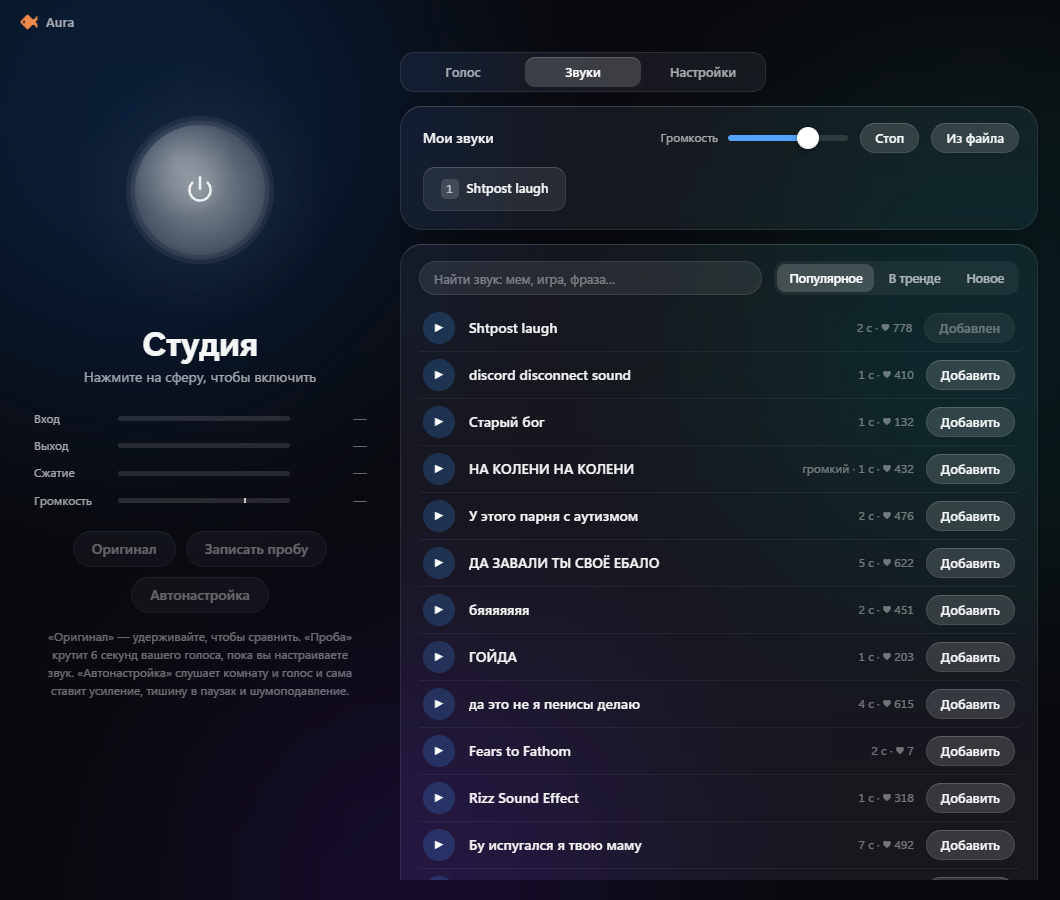
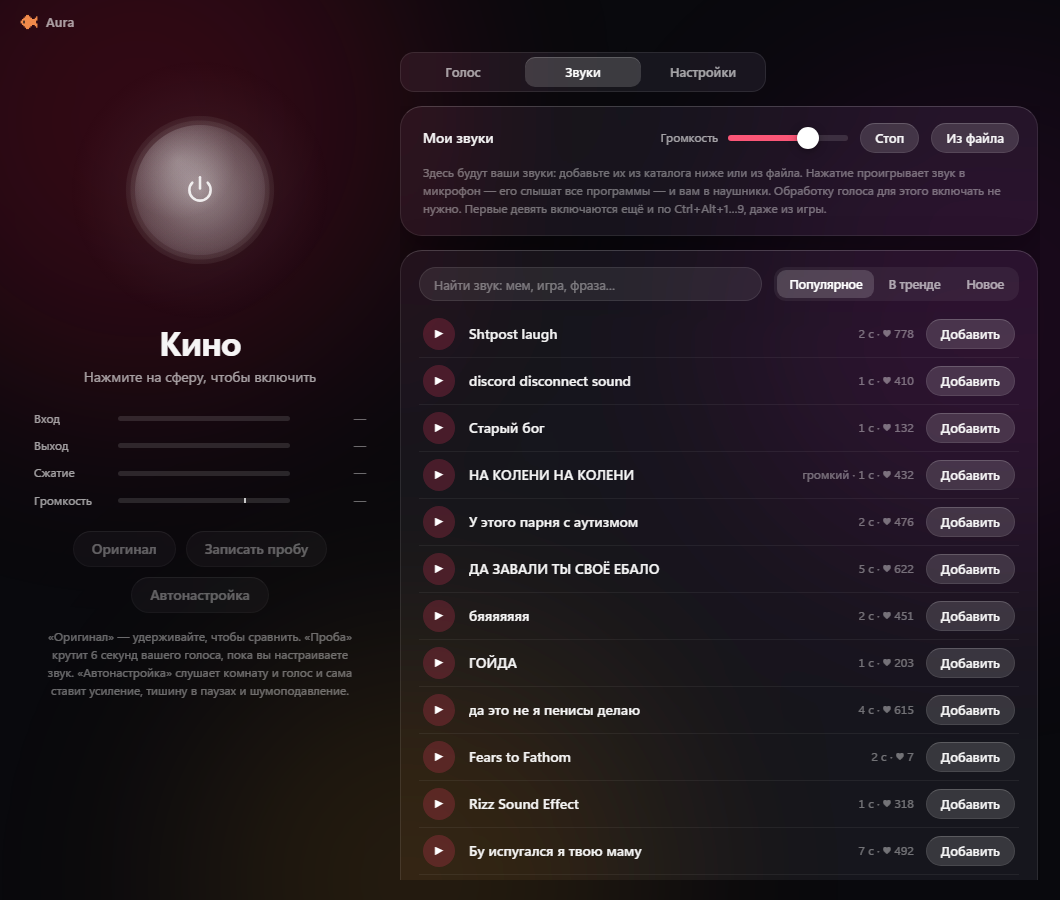
Launch animation; software-rendered dev screenshots

Changed region(s): [[0.0, 0.0, 0.9962, 0.9956], [0.6849, 0.1244, 0.7472, 0.1556], [0.3736, 0.0622, 0.4047, 0.0933]]

diff --git a/app/style.css b/app/style.css
@@ -55,6 +55,49 @@ main {
   display: grid; grid-template-columns: 360px 1fr; gap: 20px;
 }
 
+/* ───────── Launch ─────────
+ * The fish is drawn pixel by pixel, the name settles under it, then the curtain lifts and the
+ * interface rises into place. About a second and a half; any click or key skips it. */
+.intro {
+  position: fixed; inset: 0; z-index: 10;
+  display: flex; flex-direction: column; align-items: center; justify-content: center; gap: 26px;
+  background: radial-gradient(60% 50% at 50% 46%, rgba(240, 138, 75, 0.16), transparent 70%), #09090d;
+  transition: opacity 520ms ease, transform 700ms cubic-bezier(0.22, 1, 0.36, 1), filter 520ms ease;
+  -webkit-app-region: drag;
+  animation: intro-failsafe 400ms 4500ms forwards; /* never leave the window covered, whatever happens */
+}
+.intro.leaving { opacity: 0; transform: scale(1.12); filter: blur(10px); pointer-events: none; }
+.intro-fish {
+  display: grid; grid-template-columns: repeat(12, 15px); grid-auto-rows: 15px;
+  filter: drop-shadow(0 0 0 rgba(240, 138, 75, 0));
+  animation: intro-glow 900ms 520ms cubic-bezier(0.22, 1, 0.36, 1) forwards, intro-swim 1400ms 300ms cubic-bezier(0.22, 1, 0.36, 1) both;
+}
+.intro-fish i { opacity: 0; transform: scale(0.2) translate(-14px, 6px); animation: intro-pixel 460ms cubic-bezier(0.22, 1, 0.36, 1) forwards; }
+.intro-fish i.body { background: #f08a4b; }
+.intro-fish i.eye { background: #1a1a1e; }
+.intro-name {
+  font: 700 30px/1 -apple-system, 'SF Pro Display', 'Segoe UI Variable Display', 'Segoe UI', system-ui, sans-serif;
+  letter-spacing: 0.32em; margin-right: -0.32em; color: #fff; opacity: 0;
+  animation: intro-name 760ms 560ms cubic-bezier(0.22, 1, 0.36, 1) forwards;
+}
+@keyframes intro-pixel { to { opacity: 1; transform: none; } }
+@keyframes intro-glow { to { filter: drop-shadow(0 0 26px rgba(240, 138, 75, 0.55)); } }
+@keyframes intro-swim { from { transform: translateX(-26px); } to { transform: none; } }
+@keyframes intro-name { from { opacity: 0; transform: translateY(10px); letter-spacing: 0.6em; } to { opacity: 1; transform: none; letter-spacing: 0.32em; } }
+@keyframes intro-failsafe { to { opacity: 0; visibility: hidden; } }
+
+/* The interface waits under the curtain, then rises: the orb first, the controls a beat later. */
+.hero, .controls { transition: opacity 620ms ease, transform 820ms cubic-bezier(0.22, 1, 0.36, 1); }
+.controls { transition-delay: 90ms; }
+body.intro-on .hero, body.intro-on .controls { opacity: 0; transform: translateY(18px) scale(0.985); animation: intro-reveal 400ms 4500ms forwards; }
+@keyframes intro-reveal { to { opacity: 1; transform: none; } }
+
+@media (prefers-reduced-motion: reduce) {
+  .intro-fish, .intro-fish i, .intro-name { animation: none; opacity: 1; transform: none; }
+  .intro.leaving { transform: none; filter: none; }
+  body.intro-on .hero, body.intro-on .controls { transform: none; }
+}
+
 /* ───────── Hero ───────── */
 .hero { display: flex; flex-direction: column; align-items: center; padding-top: 8px; min-height: 0; }
 

diff --git a/main.js b/main.js
@@ -16,6 +16,7 @@ const asset = (name) => path.join(__dirname, 'assets', name);
 
 // Let the audio engine start on launch, without waiting for a click.
 app.commandLine.appendSwitch('autoplay-policy', 'no-user-gesture-required');
+if (shotArg) app.disableHardwareAcceleration(); // dev screenshots: software rendering works with the display off
 
 if (!devRun && !app.requestSingleInstanceLock()) app.quit();
 
@@ -73,6 +74,18 @@ function createWindow() {
   });
 
   if (shotArg || testMode || probeMode) {
+    // dev: AURA_EARLY_SHOT=<ms after load> saves an extra frame, e.g. to look at the launch animation
+    if (shotArg && process.env.AURA_EARLY_SHOT) {
+      win.webContents.once('did-finish-load', () => {
+        setTimeout(async () => {
+          try {
+            fs.writeFileSync(shotArg.slice('--shot='.length).replace(/.png$/, '-early.png'), (await win.webContents.capturePage()).toPNG());
+          } catch (err) {
+            console.log('[early shot] failed:', err.message);
+          }
+        }, Number(process.env.AURA_EARLY_SHOT));
+      });
+    }
     if (shotArg && clickSelector) {
       setTimeout(async () => {
         const result = await win.webContents
@@ -94,7 +107,7 @@ function createWindow() {
         }
         // A text summary of what is on screen, for when a picture is not enough.
         const summary = await win.webContents
-          .executeJavaScript("JSON.stringify({ tab: document.querySelector('.tabs [aria-selected=true]')?.textContent, pages: [...document.querySelectorAll('.page')].filter((p) => !p.hidden).map((p) => p.dataset.page), pads: [...document.querySelectorAll('.pad')].map((e) => e.textContent), added: document.querySelector('.catalog-row .pill')?.textContent, rows: document.querySelectorAll('.catalog-row').length, first: [...document.querySelectorAll('.catalog-title')].slice(0, 3).map((e) => e.textContent), note: document.querySelector('#catalogNote')?.textContent, status: document.querySelector('#status')?.textContent })")
+          .executeJavaScript("JSON.stringify({ tab: document.querySelector('.tabs [aria-selected=true]')?.textContent, pages: [...document.querySelectorAll('.page')].filter((p) => !p.hidden).map((p) => p.dataset.page), pads: [...document.querySelectorAll('.pad')].map((e) => e.textContent), added: document.querySelector('.catalog-row .pill')?.textContent, rows: document.querySelectorAll('.catalog-row').length, first: [...document.querySelectorAll('.catalog-title')].slice(0, 3).map((e) => e.textContent), note: document.querySelector('#catalogNote')?.textContent, status: document.querySelector('#status')?.textContent, intro: !!document.querySelector('#intro'), body: document.body.className, heroOpacity: getComputedStyle(document.querySelector('.hero')).opacity, fishCells: document.querySelectorAll('#introFish i').length })")
           .catch((err) => 'summary failed: ' + err.message);
         console.log('[dom]', summary);
       }

diff --git a/app/app.js b/app/app.js
@@ -1000,6 +1000,39 @@ function drawOrb() {
   g.fill();
 }
 
+/* ───────── Launch animation ───────── */
+(function intro() {
+  const overlay = $('#intro');
+  const SPRITE = ['....##......', '...####....#', '..######..##', '.###########', '##E########.', '##E########.', '.###########', '..######..##', '...####....#', '....##......'];
+  const fish = $('#introFish');
+  SPRITE.forEach((row, y) => {
+    for (let x = 0; x < row.length; x++) {
+      const cell = document.createElement('i');
+      if (row[x] !== '.') {
+        cell.className = row[x] === 'E' ? 'eye' : 'body';
+        // Drawn nose to tail, with a little scatter so it shimmers rather than wipes.
+        cell.style.animationDelay = `${Math.round(x * 26 + Math.abs(y - 4.5) * 14 + Math.random() * 70)}ms`;
+      }
+      fish.append(cell);
+    }
+  });
+
+  let done = false;
+  const finish = () => {
+    if (done) return;
+    done = true;
+    removeEventListener('pointerdown', finish, true);
+    removeEventListener('keydown', finish, true);
+    overlay.classList.add('leaving');
+    document.body.classList.remove('intro-on');
+    setTimeout(() => overlay.remove(), 800);
+  };
+  if (TEST) return finish();
+  addEventListener('pointerdown', finish, true);
+  addEventListener('keydown', finish, true);
+  setTimeout(finish, REDUCED_MOTION ? 500 : 1550);
+})();
+
 /* ───────── Boot ───────── */
 async function boot() {
   $('#mute').disabled = true; // until the module is known to be installed

diff --git a/app/index.html b/app/index.html
@@ -6,7 +6,11 @@
   <title>Aura</title>
   <link rel="stylesheet" href="style.css">
 </head>
-<body>
+<body class="intro-on">
+  <div class="intro" id="intro" aria-hidden="true">
+    <div class="intro-fish" id="introFish"></div>
+    <div class="intro-name">Aura</div>
+  </div>
   <div class="backdrop" aria-hidden="true"><i></i><i></i><i></i></div>
   <header class="titlebar"><img src="../assets/icon.png" alt=""><span>Aura</span></header>
 
